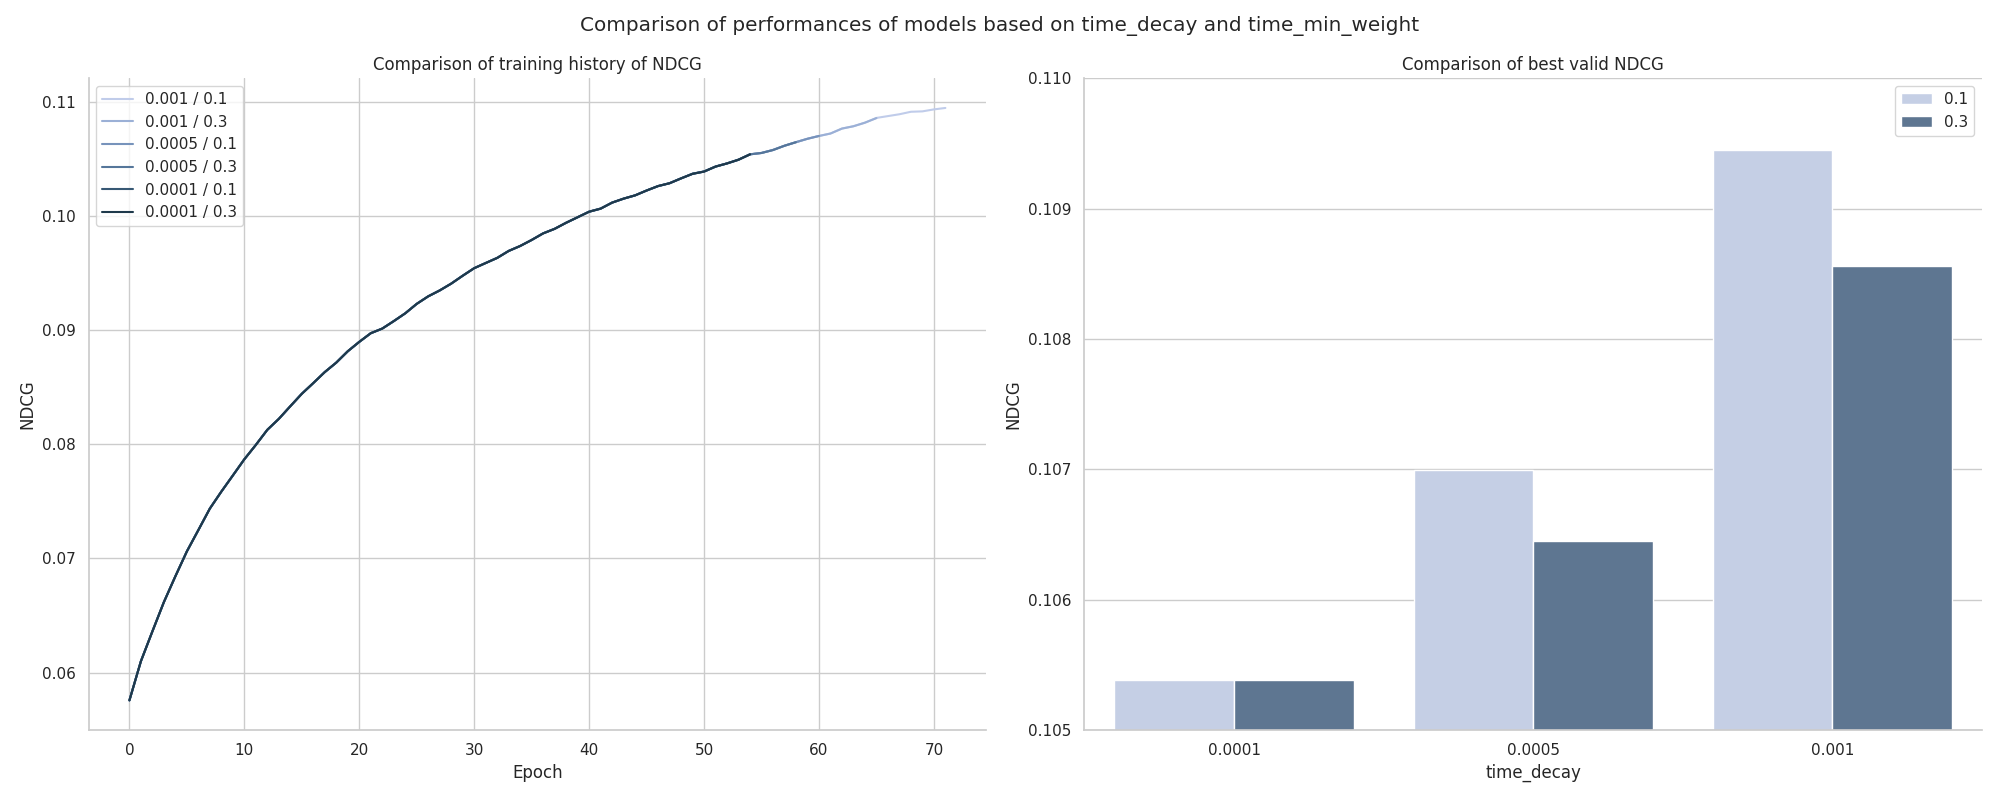
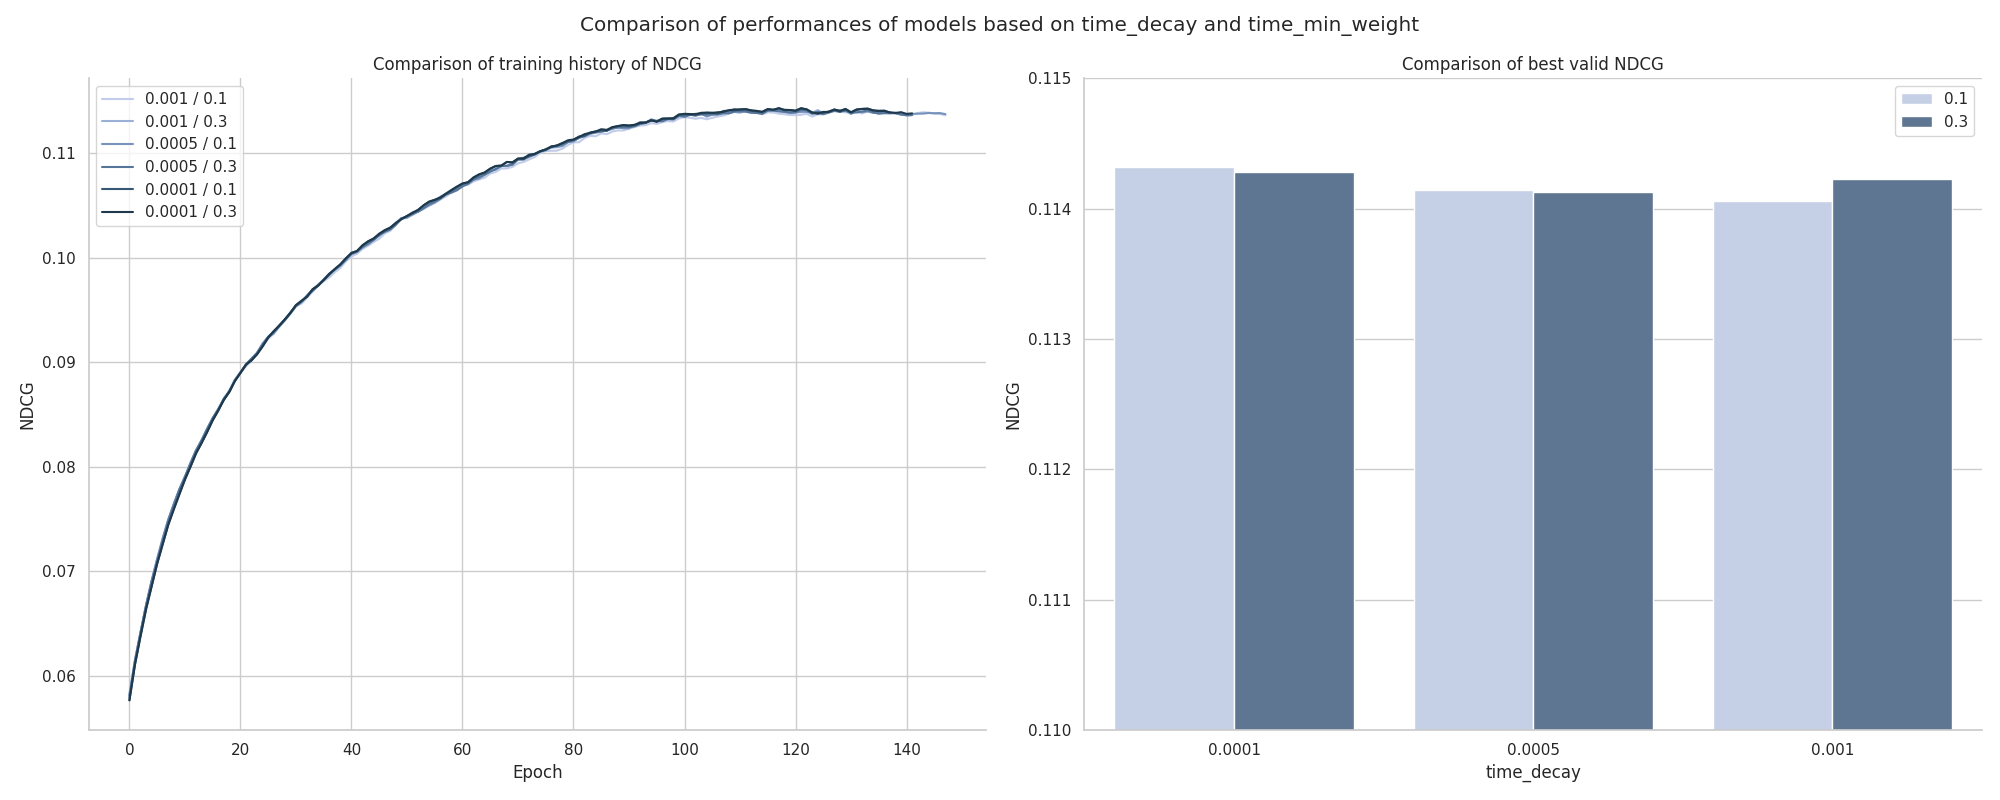
experiments with time decay

diff --git a/evaluation/compare_models.py b/evaluation/compare_models.py
@@ -82,7 +82,7 @@ def plot_comparisons_one_target(names, targets, config_path, target_name=None):
         df = pd.DataFrame({"epoch": range(len(ndcg)), "ndcg": ndcg, "target": [target] * len(ndcg)})
         results.append(df)
 
-    results = pd.concat(results, axis=0)
+    results = pd.concat(results, axis=0).reset_index(drop=True)
     plot_history_line(results, ax1, palette)
     plot_ndcg_bar(results, ax2, palette, target_name)
 
@@ -121,7 +121,7 @@ def plot_comparisons_two_targets(names, targets, config_path, target_name=None, 
 
         results.append(df)
 
-    results = pd.concat(results, axis=0)
+    results = pd.concat(results, axis=0).reset_index(drop=True)
 
     plot_history_line(results, ax1, palette)
     plot_ndcg_bar(results, ax2, palette[::results["main_target"].nunique()], target_name, sub_target_name)
@@ -179,7 +179,7 @@ if __name__ == "__main__":
         "emb_512_n_layers_8_reg_0.001_gentle_0.05",
     ]
 
-    targets = [["model", "n_layers"], ["model", "decay"]]
+    targets = [["model", "n_layers"], ["model", "layer_decay"]]
     plot_comparisons_two_targets(names, targets, config_path, target_name=None, sub_target_name=None)
 
     names = [

diff --git a/training/dataset.py b/training/dataset.py
@@ -45,7 +45,7 @@ def build_adjacency_matrix(cfg):
     else:
         t_values = train_pos["time"].values.astype(np.float32)
         t_max = t_values.max()
-        time_diff_days = (t_max - t_values) / 86400.0
+        time_diff_days = (t_max - t_values) / (86400.0 * 1000)
 
         time_min_weight = cfg["model"]["time_min_weight"]
         weights = (1 - time_min_weight) * np.exp(-time_decay * time_diff_days) + time_min_weight
